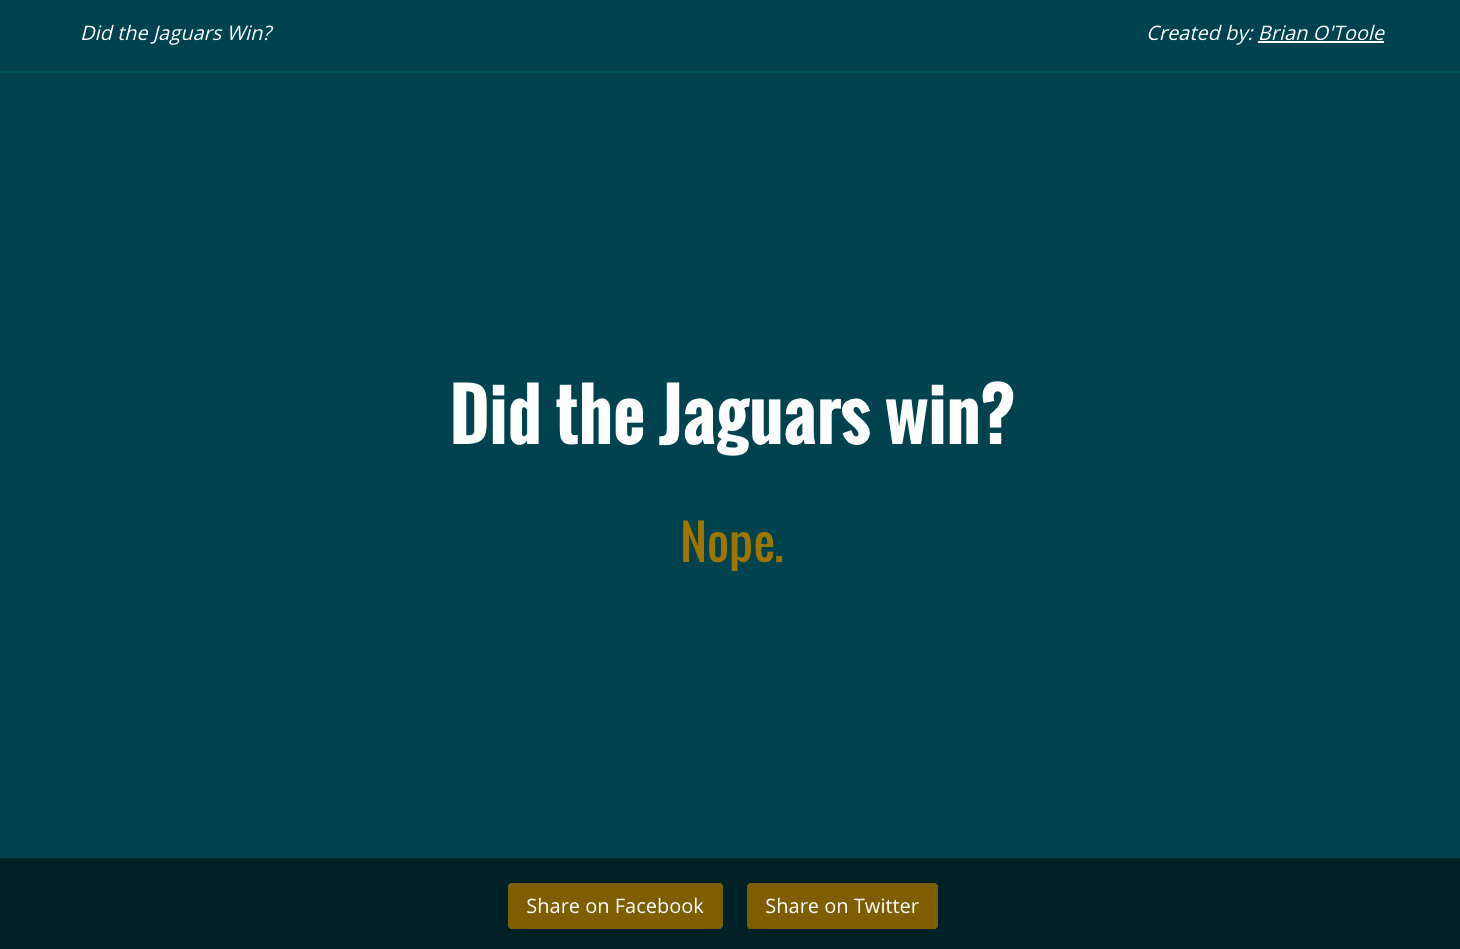
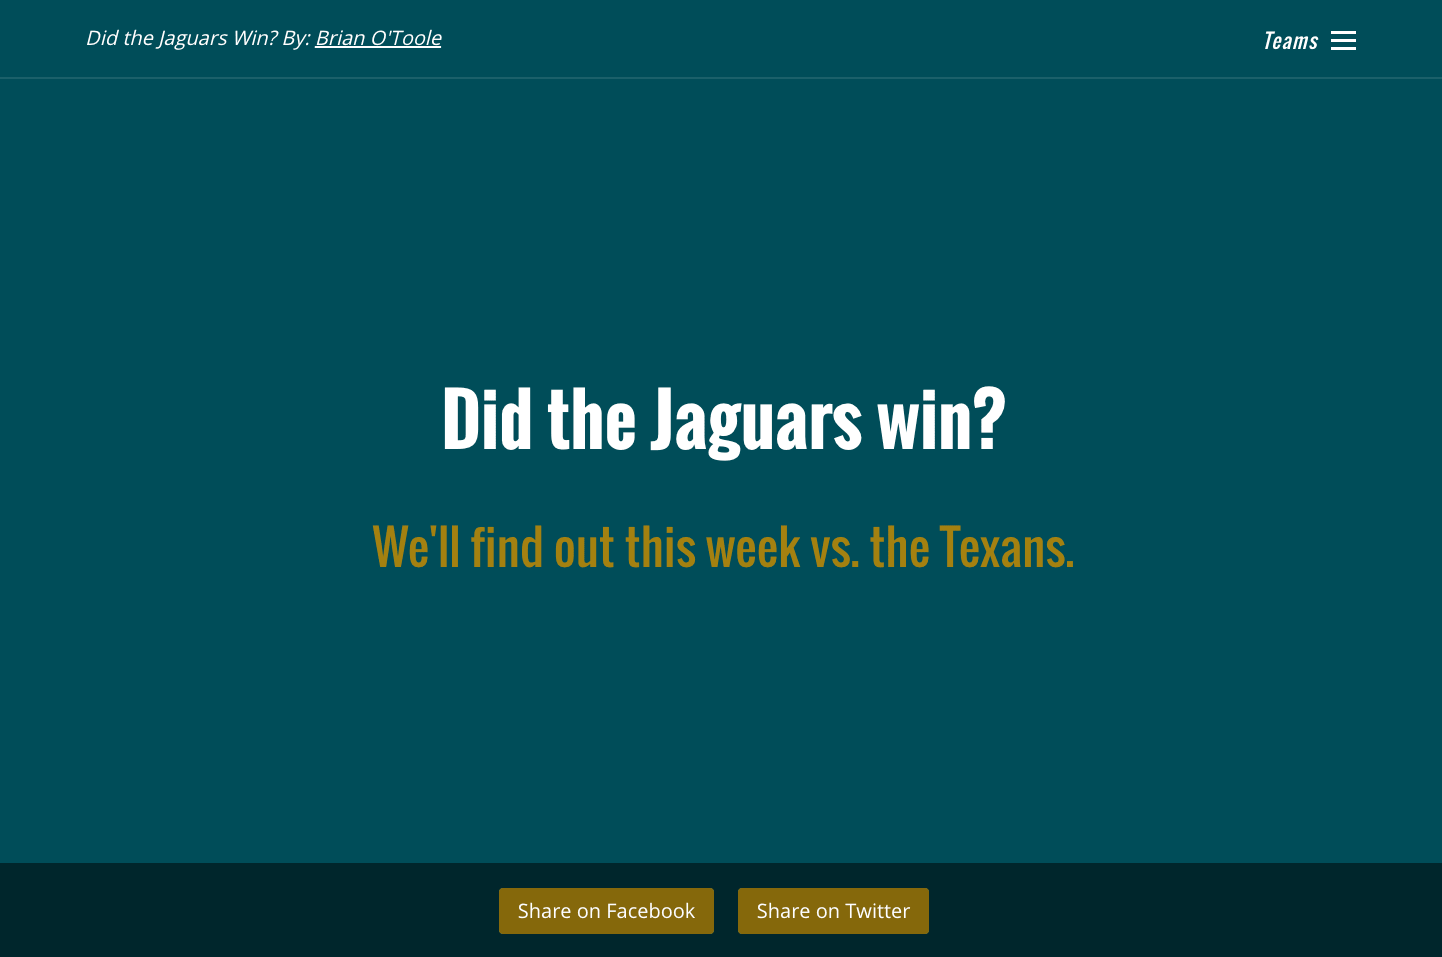
edited project images and content

diff --git a/_projects/2016-11-09-didjagswin.md b/_projects/2016-11-09-didjagswin.md
@@ -7,15 +7,15 @@ img: project-didjagswin.jpg
 link: http://didjagswin.com
 ---
 
-I'm a huge Jacksonville Jaguars fan and it's a tough life for us fans. It's been 8 years since the Jags have had a winning record. Since we never win, I thought it would be funny to spin up one of those joke websites, "Did Your Team Win?", like  [DidDukeWin](https://www.diddukewin.com/){:target="_blank"}. However, instead of needing to update it after each game, I wanted to use an NFL scoring API in real-time, so scoring outcomes are automatically updated, without me needing to edit anything.
+I'm a huge Jacksonville Jaguars fan and it's a tough life for us fans. It's been 8 years since the Jags have had a winning record. Yeah, we suck! Anwyays, since we never win, I thought it would be funny to spin up one of those "Did Your Team Win?" websites, like [DidDukeWin](https://www.diddukewin.com/){:target="_blank"}. However, instead of needing to update it after each game, I wanted to find an API that tracks NFL scores in real-time, so team scores are automatically updated, without me needing to edit anything.
 
 ### Objectives
-* Find & use NFL API feed to check scores weekly
+* Find & use NFL API to check scores weekly
 * Create one-page site that pull in data from feed and shows if team won or lost
 * This is just for fun
 
 ### Work Involved
-Using the NFL Live Update API, I was able to get the latest score as a JSON feed, access the scores object and parse each team's scoring information for that particular week.
+Using the NFL Live API, I was able to get the latest score as a JSON feed, access the scores object and parse each team's scoring information for that particular week.
 
 Since the data-set does not say which team is the winner, I needed to create a method to check whether or not the Jaguars were the Home or Away team and create a decision against possible scoring outcomes. 
 
@@ -34,6 +34,9 @@ Now, we can check against the possible scoring outcomes:
 * If team **IS NOT** home, and the home team **IS** the winner, the outcome is: "Lost at away."
 * If team **IS NOT** home, and the home team **IS NOT** the winner, the outcome is: "Won at away."
 
-That's all. Go Jags (I guess?!).
+Taking it a step futher, I decided... why not do this for all the current teams that suck (Browns, Bucs, Dolphins). Since I'm using Jekyll as my parsing engine for the site, all it would take is to set global variables in the `_config.yml` file and change those variables to reflect the new team's site information. Then, add a menu toggle so the user can switch between sites. I purchased domains for each team and here's what we have:
 
 ![didjagswin homepage image](/assets/project-didjagswin-home.png)
+![didjagswin homepage image](/assets/project-didjagswin-bucs.png)
+![didjagswin homepage image](/assets/project-didjagswin-browns.png)
+![didjagswin homepage image](/assets/project-didjagswin-phins.png)
